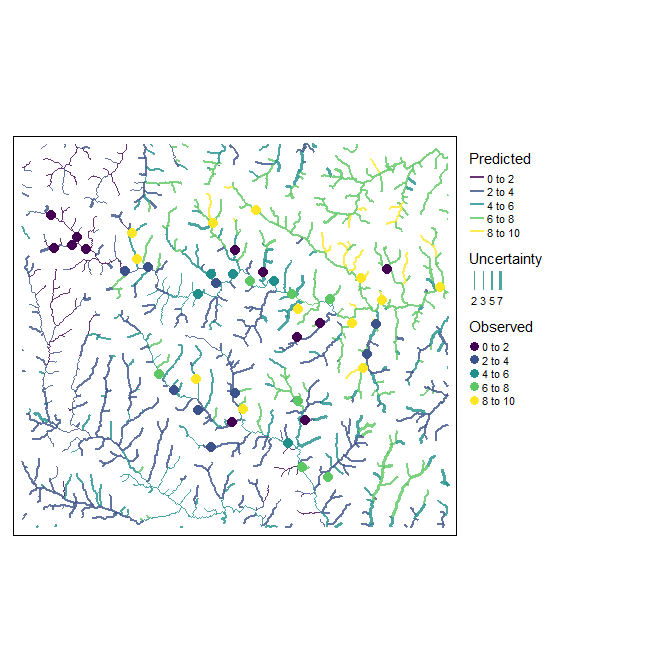
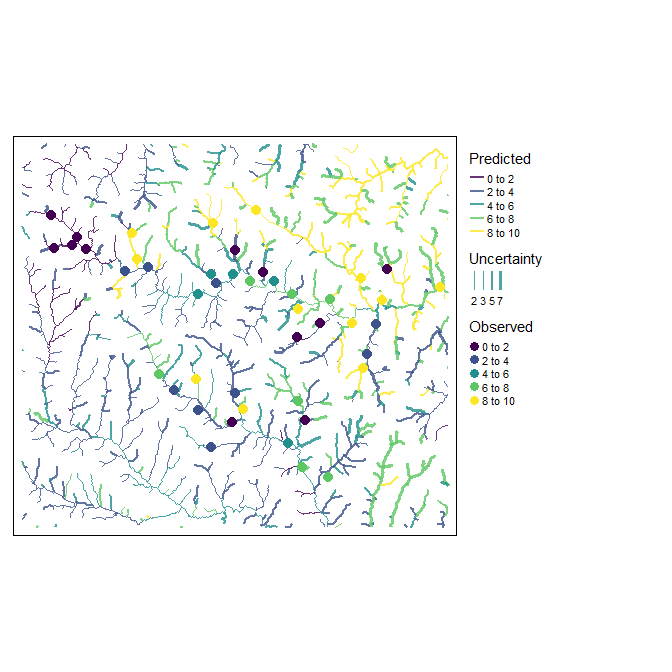
updated readme

diff --git a/README.md b/README.md
@@ -189,7 +189,7 @@ library(dplyr)
 
 # Parallelization is done through the future package, so all parallel backends
 # should be supported i.e.,:
-plan(multisession(workers = future::availableCores(logical = F)))
+plan(multisession)
 
 ## Generate save_dir as a temporary directory
 save_dir <- tempdir()
@@ -353,11 +353,11 @@ fl<-unzip(list=T, # when list==T, contents are listed only, if F, they are extra
 
 fl
 #>                   Name  Length                Date
-#> 1        dem_final.tif 1804210 2022-10-06 12:08:00
-#> 2           dem_d8.tif  454212 2022-10-06 12:08:00
-#> 3     dem_accum_d8.tif  904212 2022-10-06 12:08:00
-#> 4 dem_accum_d8_sca.tif  904212 2022-10-06 12:08:00
-#> 5   dem_streams_d8.tif  904212 2022-10-06 12:08:00
+#> 1        dem_final.tif 1804210 2022-10-09 09:28:00
+#> 2           dem_d8.tif  454212 2022-10-09 09:28:00
+#> 3     dem_accum_d8.tif  904212 2022-10-09 09:28:00
+#> 4 dem_accum_d8_sca.tif  904212 2022-10-09 09:28:00
+#> 5   dem_streams_d8.tif  904212 2022-10-09 09:28:00
 
 flow_accum_path<-file.path("/vsizip", # "/vsizip" allows terra and sf functions to read from .zip files
                            hydro_out$outfile, # Then specify the full path to the zip file
@@ -365,7 +365,7 @@ flow_accum_path<-file.path("/vsizip", # "/vsizip" allows terra and sf functions 
 )
 
 flow_accum_path
-#> [1] "/vsizip/C:\\Users\\ecopu\\AppData\\Local\\Temp\\RtmpA1AEgM\\Processed_Hydrology.zip/dem_accum_d8.tif"
+#> [1] "/vsizip/C:\\Users\\PSCHAE~1\\AppData\\Local\\Temp\\RtmpwZJNZp\\Processed_Hydrology.zip/dem_accum_d8.tif"
 
 flow_accum<-rast(flow_accum_path)
 
@@ -912,32 +912,32 @@ hydro_out_sparse<-process_hydrology(
 # Since we didn't return the products, we'll verify the outputs exist in the .zip file
 unzip(list=T,hydro_out_sparse$outfile)
 #>                    Name  Length                Date
-#> 1         dem_final.tif 1804210 2022-10-06 12:10:00
-#> 2            dem_d8.tif  454212 2022-10-06 12:10:00
-#> 3      dem_accum_d8.tif  904212 2022-10-06 12:10:00
-#> 4  dem_accum_d8_sca.tif  904212 2022-10-06 12:10:00
-#> 5    dem_streams_d8.tif  904212 2022-10-06 12:10:00
-#> 6       site_id_col.csv      22 2022-10-06 12:10:00
-#> 7      stream_links.dbf   18372 2022-10-06 12:10:00
-#> 8      stream_links.prj     503 2022-10-06 12:10:00
-#> 9      stream_links.shp    6428 2022-10-06 12:10:00
-#> 10     stream_links.shx    1908 2022-10-06 12:10:00
-#> 11     stream_lines.dbf    5691 2022-10-06 12:10:00
-#> 12     stream_lines.prj     503 2022-10-06 12:10:00
-#> 13     stream_lines.shp   70924 2022-10-06 12:10:00
-#> 14     stream_lines.shx    1900 2022-10-06 12:10:00
-#> 15    stream_points.dbf  145016 2022-10-06 12:10:00
-#> 16    stream_points.prj     503 2022-10-06 12:10:00
-#> 17    stream_points.shp  162444 2022-10-06 12:10:00
-#> 18    stream_points.shx   46484 2022-10-06 12:10:00
-#> 19   Subbasins_poly.dbf    7782 2022-10-06 12:10:00
-#> 20   Subbasins_poly.prj     503 2022-10-06 12:10:00
-#> 21   Subbasins_poly.shp  380032 2022-10-06 12:10:00
-#> 22   Subbasins_poly.shx    1908 2022-10-06 12:10:00
-#> 23   Catchment_poly.dbf   18372 2022-10-06 12:10:00
-#> 24   Catchment_poly.prj     503 2022-10-06 12:10:00
-#> 25   Catchment_poly.shp  997812 2022-10-06 12:10:00
-#> 26   Catchment_poly.shx    1908 2022-10-06 12:10:00
+#> 1         dem_final.tif 1804210 2022-10-09 09:33:00
+#> 2            dem_d8.tif  454212 2022-10-09 09:33:00
+#> 3      dem_accum_d8.tif  904212 2022-10-09 09:33:00
+#> 4  dem_accum_d8_sca.tif  904212 2022-10-09 09:33:00
+#> 5    dem_streams_d8.tif  904212 2022-10-09 09:33:00
+#> 6       site_id_col.csv      22 2022-10-09 09:33:00
+#> 7      stream_links.dbf   18372 2022-10-09 09:33:00
+#> 8      stream_links.prj     503 2022-10-09 09:33:00
+#> 9      stream_links.shp    6428 2022-10-09 09:33:00
+#> 10     stream_links.shx    1908 2022-10-09 09:33:00
+#> 11     stream_lines.dbf    5691 2022-10-09 09:33:00
+#> 12     stream_lines.prj     503 2022-10-09 09:33:00
+#> 13     stream_lines.shp   70924 2022-10-09 09:33:00
+#> 14     stream_lines.shx    1900 2022-10-09 09:33:00
+#> 15    stream_points.dbf  145016 2022-10-09 09:33:00
+#> 16    stream_points.prj     503 2022-10-09 09:33:00
+#> 17    stream_points.shp  162444 2022-10-09 09:33:00
+#> 18    stream_points.shx   46484 2022-10-09 09:33:00
+#> 19   Subbasins_poly.dbf    7782 2022-10-09 09:33:00
+#> 20   Subbasins_poly.prj     503 2022-10-09 09:33:00
+#> 21   Subbasins_poly.shp  380032 2022-10-09 09:33:00
+#> 22   Subbasins_poly.shx    1908 2022-10-09 09:33:00
+#> 23   Catchment_poly.dbf   18372 2022-10-09 09:33:00
+#> 24   Catchment_poly.prj     503 2022-10-09 09:33:00
+#> 25   Catchment_poly.shp  997812 2022-10-09 09:33:00
+#> 26   Catchment_poly.shx    1908 2022-10-09 09:33:00
 
 tm_shape(read_sf(file.path("/vsizip",hydro_out_sparse$outfile,"Subbasins_poly.shp"))) + 
   tm_polygons(col="white",alpha =0.2,legend.show=F) +
@@ -1156,25 +1156,25 @@ final_attributes<-fasttrib_points(
 
 final_attributes
 #> # A tibble: 45 × 94
-#>    link_id site_id slope_lumpe…¹ slope…² slope…³ slope…⁴ LC_1_…⁵ LC_2_…⁶ LC_3_…⁷
+#>    link_id site_id slope_lumpe…¹ LC_1_…² LC_2_…³ LC_3_…⁴ LC_4_…⁵ LC_5_…⁶ LC_6_…⁷
 #>    <chr>   <chr>           <dbl>   <dbl>   <dbl>   <dbl>   <dbl>   <dbl>   <dbl>
-#>  1 1124.1  41               2.43    1.57 0.00253   11.4    0.675       0 1.29e-1
-#>  2 1118.1  1                3.05    1.46 0.203     10.2    0.302       0 9.19e-4
-#>  3 103.1   62               3.13    1.81 0.0667     8.27   0.715       0 1.35e-1
-#>  4 145.1   26               2.82    1.37 0.152      7.64   0.439       0 0      
-#>  5 1091.1  4                3.38    1.75 0.146     12.3    0.183       0 5.24e-2
-#>  6 1058.1  7                2.75    1.75 0.0323     9.97   0.504       0 6.46e-2
-#>  7 1053.1  5                2.52    1.59 0.0323     7.90   0.587       0 8.05e-2
-#>  8 1079.1  8                3.23    1.90 0.0323    12.3    0.274       0 5.27e-2
-#>  9 1085.1  66               3.97    2.04 0.110     10.7    0.675       0 5.62e-2
-#> 10 1098.1  28               3.33    1.80 0.152     10.8    0.468       0 2.14e-2
-#> # … with 35 more rows, 85 more variables: LC_4_lumped_prop <dbl>,
-#> #   LC_5_lumped_prop <dbl>, LC_6_lumped_prop <dbl>, LC_7_lumped_prop <dbl>,
+#>  1 1124.1  41               2.43   0.675       0 1.29e-1  0.106   0.0892       0
+#>  2 1118.1  1                2.94   0.302       0 9.19e-4  0.0634  0.633        0
+#>  3 103.1   62               3.13   0.715       0 1.35e-1  0       0.150        0
+#>  4 145.1   26               2.82   0.439       0 0        0.125   0.436        0
+#>  5 1091.1  4                3.34   0.183       0 5.24e-2  0.0441  0.720        0
+#>  6 1058.1  7                2.75   0.504       0 6.46e-2  0.0253  0.406        0
+#>  7 1053.1  5                2.52   0.587       0 8.05e-2  0.0134  0.319        0
+#>  8 1079.1  8                3.21   0.274       0 5.27e-2  0.0394  0.633        0
+#>  9 1085.1  66               3.97   0.675       0 5.62e-2  0       0.269        0
+#> 10 1098.1  28               3.33   0.468       0 2.14e-2  0.0953  0.415        0
+#> # … with 35 more rows, 85 more variables: LC_7_lumped_prop <dbl>,
 #> #   GEO_NAME_CZam_lumped_prop <dbl>, GEO_NAME_CZbg_lumped_prop <dbl>,
 #> #   GEO_NAME_CZfg_lumped_prop <dbl>, GEO_NAME_CZg_lumped_prop <dbl>,
 #> #   GEO_NAME_CZig_lumped_prop <dbl>, GEO_NAME_CZlg_lumped_prop <dbl>,
 #> #   GEO_NAME_CZve_lumped_prop <dbl>, GEO_NAME_Km_lumped_prop <dbl>,
-#> #   pontsrc_pontsrc_lumped_prop <dbl>, slope_HAiFLS_mean <dbl>, …
+#> #   pontsrc_pontsrc_lumped_prop <dbl>, slope_lumped_sd <dbl>,
+#> #   slope_lumped_min <dbl>, slope_lumped_max <dbl>, slope_iFLS_mean <dbl>, …
 ```
 
 [Back to top](#1-introduction)
@@ -1230,9 +1230,20 @@ fasttrib_points_time_big<-system.time(
       #           # This adds to the size of the zip file, and increases the computation time.
       use_exising_hw=F, #This will attempt to use existing hydroweights when available
       temp_dir=NULL,
-      verbose=F
+      verbose=T
     )
 )
+#> [1] "Reading in data"
+#> [1] "Reading in LOI"
+#> [1] "Writing LOI to attributes database"
+#> [1] "Generating Stream Targeted Weights"
+#> [1] "Writing S-targeted weights to attributes database"
+#> [1] "Generating Site Targeted Weights"
+#> [1] "Unnesting Basins"
+#> [1] "Writing O-targeted weights to attributes database"
+#> [1] "Calculating Lumped Attributes"
+#> [1] "Calculating s-targeted Attributes"
+#> [1] "Calculating o-targeted Attributes"
 
 attrib_points_time_big<-system.time(
   final_attributes_slow<-attrib_points(
@@ -1256,25 +1267,25 @@ attrib_points_time_big<-system.time(
 
 final_attributes_all
 #> # A tibble: 1,206 × 93
-#>    link_id slope_lumpe…¹ slope…² slope…³ slope…⁴ LC_1_…⁵ LC_2_…⁶ LC_3_…⁷ LC_4_…⁸
+#>    link_id slope_lumpe…¹ LC_1_…² LC_2_…³ LC_3_…⁴ LC_4_…⁵ LC_5_…⁶ LC_6_…⁷ LC_7_…⁸
 #>    <chr>           <dbl>   <dbl>   <dbl>   <dbl>   <dbl>   <dbl>   <dbl>   <dbl>
-#>  1 7                3.95    1.92    8.26  0.178   0            0  0       0.442 
-#>  2 5                4.70    2.44   10.4   0.385   0            0  0       0.0955
-#>  3 1209             3.99    1.91   12.7   0.0656  0.0622       0  0.0916  0.0811
-#>  4 1217             4.08    2.34   15.9   0.119   0.178        0  0.0585  0.0943
-#>  5 1215             3.58    2.22   14.5   0.0485  0.101        0  0.294   0.0738
-#>  6 1                4.65    2.19    9.09  1.11    0.0863       0  0.612   0.137 
-#>  7 1206             3.66    2.17   12.9   0.117   0.267        0  0.313   0.0678
-#>  8 3                3.45    1.78    8.18  0.296   0.769        0  0.0410  0     
-#>  9 1207             4.33    2.60   17.8   0.162   0.302        0  0.423   0.0995
-#> 10 33               4.55    2.77   15.0   0.204   0.329        0  0.0416  0.138 
-#> # … with 1,196 more rows, 84 more variables: LC_5_lumped_prop <dbl>,
-#> #   LC_6_lumped_prop <dbl>, LC_7_lumped_prop <dbl>,
-#> #   GEO_NAME_CZam_lumped_prop <dbl>, GEO_NAME_CZbg_lumped_prop <dbl>,
-#> #   GEO_NAME_CZfg_lumped_prop <dbl>, GEO_NAME_CZg_lumped_prop <dbl>,
-#> #   GEO_NAME_CZig_lumped_prop <dbl>, GEO_NAME_CZlg_lumped_prop <dbl>,
-#> #   GEO_NAME_CZve_lumped_prop <dbl>, GEO_NAME_Km_lumped_prop <dbl>,
-#> #   pontsrc_pontsrc_lumped_prop <dbl>, slope_HAiFLS_mean <dbl>, …
+#>  1 7                3.32  0            0  0       0.442    0.558 0        0     
+#>  2 5                4.16  0            0  0       0.0955   0.904 0        0     
+#>  3 1209             3.90  0.0622       0  0.0916  0.0811   0.765 0        0     
+#>  4 1217             4.05  0.178        0  0.0585  0.0943   0.669 0        0     
+#>  5 1215             3.57  0.101        0  0.294   0.0738   0.511 0.00667  0.0142
+#>  6 1                3.84  0.0863       0  0.612   0.137    0.165 0        0     
+#>  7 1206             3.54  0.267        0  0.313   0.0678   0.352 0        0     
+#>  8 3                2.65  0.769        0  0.0410  0        0.190 0        0     
+#>  9 1207             4.26  0.302        0  0.423   0.0995   0.162 0.0141   0     
+#> 10 33               4.38  0.329        0  0.0416  0.138    0.491 0        0     
+#> # … with 1,196 more rows, 84 more variables: GEO_NAME_CZam_lumped_prop <dbl>,
+#> #   GEO_NAME_CZbg_lumped_prop <dbl>, GEO_NAME_CZfg_lumped_prop <dbl>,
+#> #   GEO_NAME_CZg_lumped_prop <dbl>, GEO_NAME_CZig_lumped_prop <dbl>,
+#> #   GEO_NAME_CZlg_lumped_prop <dbl>, GEO_NAME_CZve_lumped_prop <dbl>,
+#> #   GEO_NAME_Km_lumped_prop <dbl>, pontsrc_pontsrc_lumped_prop <dbl>,
+#> #   slope_lumped_sd <dbl>, slope_lumped_min <dbl>, slope_lumped_max <dbl>,
+#> #   slope_iFLS_mean <dbl>, LC_1_iFLS_prop <dbl>, LC_2_iFLS_prop <dbl>, …
 
 pmap(
   list(
@@ -1302,23 +1313,23 @@ pmap(
                             " cores.")
 )
 #> [[1]]
-#> [1] "attrib_points() took 0.18 min to calculate for 3 reaches with 92 attributes using 8 cores."
+#> [1] "attrib_points() took 0.38 min to calculate for 3 reaches with 92 attributes using 8 cores."
 #> 
 #> [[2]]
-#> [1] "fasttrib_points() took 0.53 min to calculate for 3 reaches with 92 attributes using 8 cores."
+#> [1] "fasttrib_points() took 0.87 min to calculate for 3 reaches with 92 attributes using 8 cores."
 #> 
 #> [[3]]
-#> [1] "attrib_points() took 34.65 min to calculate for 1206 reaches with 92 attributes using 8 cores."
+#> [1] "attrib_points() took 57 min to calculate for 1206 reaches with 92 attributes using 8 cores."
 #> 
 #> [[4]]
-#> [1] "fasttrib_points() took 2.09 min to calculate for 1206 reaches with 92 attributes using 8 cores."
+#> [1] "fasttrib_points() took 50.95 min to calculate for 1206 reaches with 92 attributes using 8 cores."
 
 paste0(round(dw_time[[3]]/60,2),
        " min to calculate distance weights for ",
        nrow(final_attributes_all)," reaches using ",
        nbrOfWorkers(),
        " cores.")
-#> [1] "1.07 min to calculate distance weights for 1206 reaches using 8 cores."
+#> [1] "2.78 min to calculate distance weights for 1206 reaches using 8 cores."
 
 
 # Plot some attributes along their respective stream lines for visualization:
@@ -1455,21 +1466,21 @@ comb_data<-response_table %>%
 
 head(comb_data)
 #> # A tibble: 6 × 337
-#>   site_id value link_id slope_…¹ slope…² slope…³ slope…⁴ LC_1_…⁵ LC_2_…⁶ LC_3_…⁷
+#>   site_id value link_id slope_…¹ LC_1_…² LC_2_…³ LC_3_…⁴ LC_4_…⁵ LC_5_…⁶ LC_6_…⁷
 #>   <chr>   <dbl> <chr>      <dbl>   <dbl>   <dbl>   <dbl>   <dbl>   <dbl>   <dbl>
-#> 1 1           1 1118.1      3.05    1.46  0.203    10.2    0.302       0 9.19e-4
-#> 2 4           1 1091.1      3.38    1.75  0.146    12.3    0.183       0 5.24e-2
-#> 3 5           1 1053.1      2.52    1.59  0.0323    7.90   0.587       0 8.05e-2
-#> 4 7           1 1058.1      2.75    1.75  0.0323    9.97   0.504       0 6.46e-2
-#> 5 8           1 1079.1      3.23    1.90  0.0323   12.3    0.274       0 5.27e-2
-#> 6 11          2 1042.1      3.42    2.22  0.0323   22.8    0.261       0 4.82e-2
-#> # … with 327 more variables: LC_4_lumped_prop <dbl>, LC_5_lumped_prop <dbl>,
-#> #   LC_6_lumped_prop <dbl>, LC_7_lumped_prop <dbl>,
+#> 1 1           1 1118.1      2.94   0.302       0 9.19e-4  0.0634   0.633       0
+#> 2 4           1 1091.1      3.34   0.183       0 5.24e-2  0.0441   0.720       0
+#> 3 5           1 1053.1      2.52   0.587       0 8.05e-2  0.0134   0.319       0
+#> 4 7           1 1058.1      2.75   0.504       0 6.46e-2  0.0253   0.406       0
+#> 5 8           1 1079.1      3.21   0.274       0 5.27e-2  0.0394   0.633       0
+#> 6 11          2 1042.1      3.41   0.261       0 4.82e-2  0.0664   0.625       0
+#> # … with 327 more variables: LC_7_lumped_prop <dbl>,
 #> #   GEO_NAME_CZam_lumped_prop <dbl>, GEO_NAME_CZbg_lumped_prop <dbl>,
 #> #   GEO_NAME_CZfg_lumped_prop <dbl>, GEO_NAME_CZg_lumped_prop <dbl>,
 #> #   GEO_NAME_CZig_lumped_prop <dbl>, GEO_NAME_CZlg_lumped_prop <dbl>,
 #> #   GEO_NAME_CZve_lumped_prop <dbl>, GEO_NAME_Km_lumped_prop <dbl>,
-#> #   pontsrc_pontsrc_lumped_prop <dbl>, slope_HAiFLS_mean <dbl>, …
+#> #   pontsrc_pontsrc_lumped_prop <dbl>, slope_lumped_sd <dbl>,
+#> #   slope_lumped_min <dbl>, slope_lumped_max <dbl>, slope_iFLS_mean <dbl>, …
 ```
 
 Then, we’ll follow the tidymodels workflow from here:
@@ -1580,16 +1591,16 @@ map_dfr(final_out,show_best,5,metric = "rmse",.id="Cross-validation strategy")
 #> # A tibble: 10 × 10
 #>    Cross-validat…¹  mtry trees min_n .metric .esti…²  mean     n std_err .config
 #>    <chr>           <int> <int> <int> <chr>   <chr>   <dbl> <int>   <dbl> <chr>  
-#>  1 standard            5   981    30 rmse    standa…  2.98     5  0.0870 Prepro…
-#>  2 standard            8  1720     3 rmse    standa…  2.99     5  0.166  Prepro…
-#>  3 standard           11  1992    28 rmse    standa…  2.99     5  0.102  Prepro…
-#>  4 standard            2   827    18 rmse    standa…  2.99     5  0.0810 Prepro…
-#>  5 standard           24  1271    30 rmse    standa…  2.99     5  0.0950 Prepro…
-#>  6 spatial            90  1051    40 rmse    standa…  2.96     5  0.349  Prepro…
-#>  7 spatial           114  1284    36 rmse    standa…  2.96     5  0.336  Prepro…
-#>  8 spatial            35  1627    38 rmse    standa…  2.97     5  0.338  Prepro…
-#>  9 spatial           105   589    37 rmse    standa…  2.97     5  0.338  Prepro…
-#> 10 spatial            44  1941    39 rmse    standa…  2.97     5  0.338  Prepro…
+#>  1 standard           11  1992    28 rmse    standa…  2.99     5  0.103  Prepro…
+#>  2 standard            5   981    30 rmse    standa…  3.00     5  0.0913 Prepro…
+#>  3 standard           79   145    20 rmse    standa…  3.00     5  0.185  Prepro…
+#>  4 standard            2   827    18 rmse    standa…  3.00     5  0.0929 Prepro…
+#>  5 standard           16   636     9 rmse    standa…  3.00     5  0.167  Prepro…
+#>  6 spatial            90  1051    40 rmse    standa…  2.95     5  0.347  Prepro…
+#>  7 spatial           114  1284    36 rmse    standa…  2.95     5  0.343  Prepro…
+#>  8 spatial            10   651    30 rmse    standa…  2.96     5  0.283  Prepro…
+#>  9 spatial            35  1627    38 rmse    standa…  2.96     5  0.344  Prepro…
+#> 10 spatial            44  1941    39 rmse    standa…  2.96     5  0.345  Prepro…
 #> # … with abbreviated variable names ¹`Cross-validation strategy`, ².estimator
 ```
 
@@ -1611,13 +1622,13 @@ best_tunes
 #> # A tibble: 1 × 11
 #>    mtry trees min_n .metric .estimator  mean     n std_err .config   .best .loss
 #>   <int> <int> <int> <chr>   <chr>      <dbl> <int>   <dbl> <chr>     <dbl> <dbl>
-#> 1    31  1850    22 rmse    standard    3.02     5   0.144 Preproce…  2.98  1.23
+#> 1   134  1481    12 rmse    standard    3.05     5   0.240 Preproce…  2.99  1.99
 #> 
 #> $spatial
 #> # A tibble: 1 × 11
 #>    mtry trees min_n .metric .estimator  mean     n std_err .config   .best .loss
 #>   <int> <int> <int> <chr>   <chr>      <dbl> <int>   <dbl> <chr>     <dbl> <dbl>
-#> 1    83   735    34 rmse    standard    3.01     5   0.284 Preproce…  2.96  1.82
+#> 1   126   685    26 rmse    standard    3.00     5   0.256 Preproce…  2.95  1.63
 
 # Final ranger results
 final_model<-finalize_workflow(wf,best_tunes$standard) %>% 
@@ -1665,25 +1676,25 @@ prediction_data<-final_attributes_all %>%
 
 prediction_data
 #> # A tibble: 1,206 × 138
-#>    link_id slope_lumpe…¹ slope…² slope…³ slope…⁴ LC_1_…⁵ LC_2_…⁶ LC_3_…⁷ LC_4_…⁸
+#>    link_id slope_lumpe…¹ LC_1_…² LC_2_…³ LC_3_…⁴ LC_4_…⁵ LC_5_…⁶ LC_6_…⁷ LC_7_…⁸
 #>    <chr>           <dbl>   <dbl>   <dbl>   <dbl>   <dbl>   <dbl>   <dbl>   <dbl>
-#>  1 7                3.95    1.92    8.26  0.178   0            0  0       0.442 
-#>  2 5                4.70    2.44   10.4   0.385   0            0  0       0.0955
-#>  3 1209             3.99    1.91   12.7   0.0656  0.0622       0  0.0916  0.0811
-#>  4 1217             4.08    2.34   15.9   0.119   0.178        0  0.0585  0.0943
-#>  5 1215             3.58    2.22   14.5   0.0485  0.101        0  0.294   0.0738
-#>  6 1                4.65    2.19    9.09  1.11    0.0863       0  0.612   0.137 
-#>  7 1206             3.66    2.17   12.9   0.117   0.267        0  0.313   0.0678
-#>  8 3                3.45    1.78    8.18  0.296   0.769        0  0.0410  0     
-#>  9 1207             4.33    2.60   17.8   0.162   0.302        0  0.423   0.0995
-#> 10 33               4.55    2.77   15.0   0.204   0.329        0  0.0416  0.138 
-#> # … with 1,196 more rows, 129 more variables: LC_5_lumped_prop <dbl>,
-#> #   LC_6_lumped_prop <dbl>, LC_7_lumped_prop <dbl>,
-#> #   GEO_NAME_CZam_lumped_prop <dbl>, GEO_NAME_CZbg_lumped_prop <dbl>,
-#> #   GEO_NAME_CZfg_lumped_prop <dbl>, GEO_NAME_CZg_lumped_prop <dbl>,
-#> #   GEO_NAME_CZig_lumped_prop <dbl>, GEO_NAME_CZlg_lumped_prop <dbl>,
-#> #   GEO_NAME_CZve_lumped_prop <dbl>, GEO_NAME_Km_lumped_prop <dbl>,
-#> #   pontsrc_pontsrc_lumped_prop <dbl>, slope_HAiFLS_mean <dbl>, …
+#>  1 7                3.32  0            0  0       0.442    0.558 0        0     
+#>  2 5                4.16  0            0  0       0.0955   0.904 0        0     
+#>  3 1209             3.90  0.0622       0  0.0916  0.0811   0.765 0        0     
+#>  4 1217             4.05  0.178        0  0.0585  0.0943   0.669 0        0     
+#>  5 1215             3.57  0.101        0  0.294   0.0738   0.511 0.00667  0.0142
+#>  6 1                3.84  0.0863       0  0.612   0.137    0.165 0        0     
+#>  7 1206             3.54  0.267        0  0.313   0.0678   0.352 0        0     
+#>  8 3                2.65  0.769        0  0.0410  0        0.190 0        0     
+#>  9 1207             4.26  0.302        0  0.423   0.0995   0.162 0.0141   0     
+#> 10 33               4.38  0.329        0  0.0416  0.138    0.491 0        0     
+#> # … with 1,196 more rows, 129 more variables: GEO_NAME_CZam_lumped_prop <dbl>,
+#> #   GEO_NAME_CZbg_lumped_prop <dbl>, GEO_NAME_CZfg_lumped_prop <dbl>,
+#> #   GEO_NAME_CZg_lumped_prop <dbl>, GEO_NAME_CZig_lumped_prop <dbl>,
+#> #   GEO_NAME_CZlg_lumped_prop <dbl>, GEO_NAME_CZve_lumped_prop <dbl>,
+#> #   GEO_NAME_Km_lumped_prop <dbl>, pontsrc_pontsrc_lumped_prop <dbl>,
+#> #   slope_lumped_sd <dbl>, slope_lumped_min <dbl>, slope_lumped_max <dbl>,
+#> #   slope_iFLS_mean <dbl>, LC_1_iFLS_prop <dbl>, LC_2_iFLS_prop <dbl>, …
 ```
 
 And finally, we can predict across the landscape. We’ll use the range of
@@ -1711,16 +1722,16 @@ prediction_tbl
 #> # A tibble: 1,206 × 6
 #>    link_id   p25   p50   p75 Uncertainty Predicted
 #>    <chr>   <dbl> <dbl> <dbl>       <dbl>     <dbl>
-#>  1 7           1     2     4           3         2
-#>  2 5           1     3     6           5         3
-#>  3 1209        1     1     3           2         1
+#>  1 7           1     2     6           5         2
+#>  2 5           1     3     4           3         3
+#>  3 1209        1     1     4           3         1
 #>  4 1217        1     1     3           2         1
-#>  5 1215        1     3     6           5         3
-#>  6 1           3     5     8           5         5
-#>  7 1206        2     3     6           4         3
-#>  8 3           3     7     8           5         7
+#>  5 1215        2     3     5           3         3
+#>  6 1           3     4     8           5         4
+#>  7 1206        1     3     6           5         3
+#>  8 3           3     8     8           5         8
 #>  9 1207        3     4     8           5         4
-#> 10 33          1     3     6           5         3
+#> 10 33          2     3     5           3         3
 #> # … with 1,196 more rows
 
 # Since we only have predictions for entire stream segments
